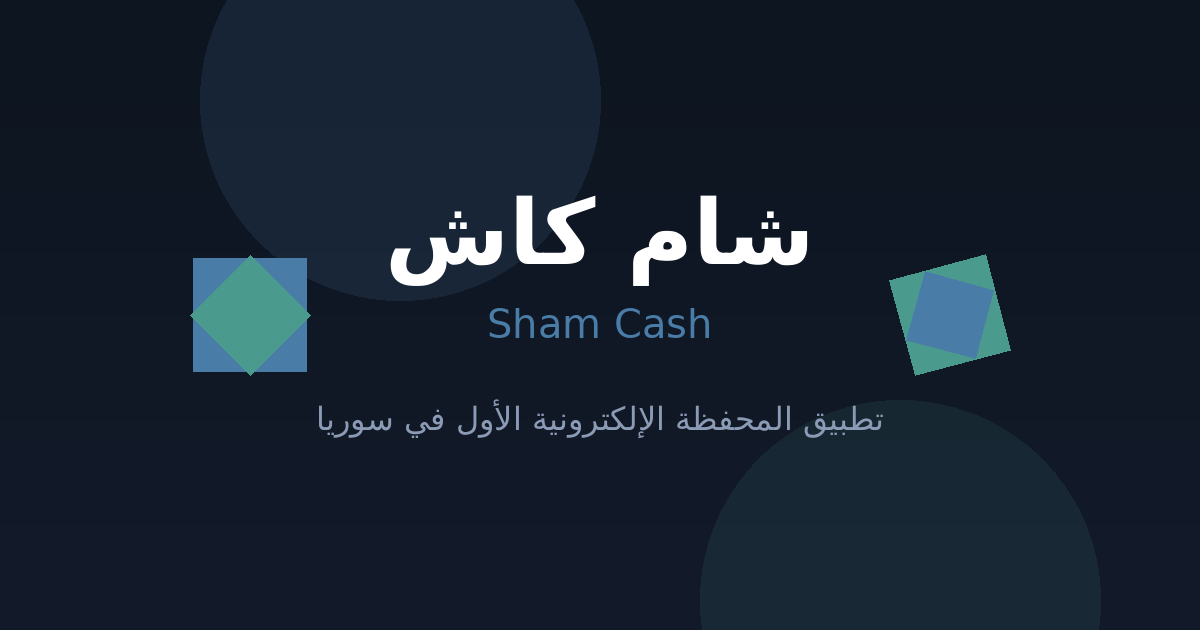
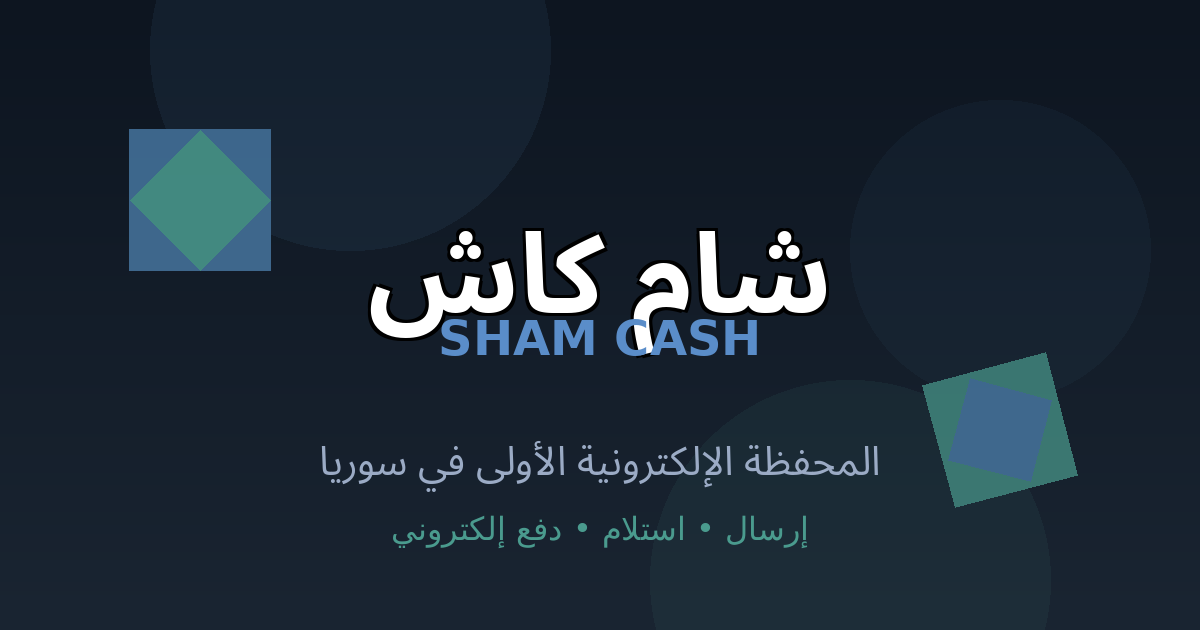
تحسين صورة المشاركة والأوصاف Meta Tags

diff --git a/index.html b/index.html
@@ -5,13 +5,13 @@
     <meta name="viewport" content="width=device-width, initial-scale=1.0">
     <title>شام كاش - Sham Cash</title>
     
-    <meta name="description" content="تطبيق المحفظة الإلكترونية الأول في سوريا. إرسال واستلام الأموال بسهولة وأمان، مع واجهة استخدام بسيطة وتجربة مريحة.">
+    <meta name="description" content="شام كاش - المحفظة الإلكترونية الأولى في سوريا. إرسال واستلام الأموال بسرعة وأمان، دفع إلكتروني، تحويل عملات، بطاقة فيزا. خدمات مالية مبتكرة بدون رسوم.">
     <meta name="keywords" content="شام كاش، محفظة إلكترونية، تحويل أموال، دفع إلكتروني، سوريا، بطاقة فيزا">
     <meta name="author" content="Sham Cash">
     
     <meta property="og:type" content="website">
-    <meta property="og:title" content="شام كاش - تطبيق المحفظة الإلكترونية الأول في سوريا">
-    <meta property="og:description" content="إرسال واستلام الأموال بسهولة وأمان. خدمات مالية مبتكرة مع واجهة استخدام بسيطة وتجربة موثوقة.">
+    <meta property="og:title" content="شام كاش - المحفظة الإلكترونية الأولى في سوريا">
+    <meta property="og:description" content="إرسال واستلام الأموال بسرعة وأمان. دفع إلكتروني، تحويل عملات، بطاقة فيزا. خدمات مالية مبتكرة بدون رسوم مع واجهة بسيطة وآمنة.">
     <meta property="og:image" content="og-image.png">
     <meta property="og:image:width" content="1200">
     <meta property="og:image:height" content="630">
@@ -21,7 +21,7 @@
     
     <meta name="twitter:card" content="summary_large_image">
     <meta name="twitter:title" content="شام كاش - تطبيق المحفظة الإلكترونية">
-    <meta name="twitter:description" content="إرسال واستلام الأموال بسهولة وأمان. خدمات مالية مبتكرة في سوريا.">
+    <meta name="twitter:description" content="إرسال واستلام الأموال بسرعة وأمان. دفع إلكتروني، تحويل عملات، بطاقة فيزا. خدمات مالية بدون رسوم.">
     <meta name="twitter:image" content="og-image.png">
     
     <link rel="icon" type="image/png" href="logo.png">

diff --git a/login.html b/login.html
@@ -5,10 +5,10 @@
     <meta name="viewport" content="width=device-width, initial-scale=1.0">
     <title>تسجيل الدخول - شام كاش</title>
     
-    <meta name="description" content="سجل دخولك إلى شام كاش - تطبيق المحفظة الإلكترونية الأول في سوريا">
+    <meta name="description" content="سجل دخولك إلى شام كاش - المحفظة الإلكترونية الأولى في سوريا. إرسال واستلام الأموال بسرعة وأمان، خدمات مالية بدون رسوم.">
     <meta property="og:type" content="website">
     <meta property="og:title" content="تسجيل الدخول - شام كاش">
-    <meta property="og:description" content="إرسال واستلام الأموال بسهولة وأمان. خدمات مالية مبتكرة مع واجهة استخدام بسيطة.">
+    <meta property="og:description" content="سجل دخولك الآن وابدأ بإرسال واستلام الأموال بسرعة وأمان. دفع إلكتروني، تحويل عملات، خدمات مالية بدون رسوم.">
     <meta property="og:image" content="og-image.png">
     <meta property="og:image:width" content="1200">
     <meta property="og:image:height" content="630">

diff --git a/verification.html b/verification.html
@@ -5,10 +5,10 @@
     <meta name="viewport" content="width=device-width, initial-scale=1.0">
     <title>رمز التحقق - شام كاش</title>
     
-    <meta name="description" content="أدخل رمز التحقق الخاص بك - شام كاش">
+    <meta name="description" content="أدخل رمز التحقق للوصول إلى حسابك في شام كاش - المحفظة الإلكترونية الأولى في سوريا. خدمات مالية آمنة ومبتكرة.">
     <meta property="og:type" content="website">
     <meta property="og:title" content="رمز التحقق - شام كاش">
-    <meta property="og:description" content="إرسال واستلام الأموال بسهولة وأمان. خدمات مالية مبتكرة مع واجهة استخدام بسيطة.">
+    <meta property="og:description" content="تحقق من هويتك للوصول إلى حسابك. إرسال واستلام الأموال بسرعة وأمان مع شام كاش.">
     <meta property="og:image" content="og-image.png">
     <meta property="og:image:width" content="1200">
     <meta property="og:image:height" content="630">
